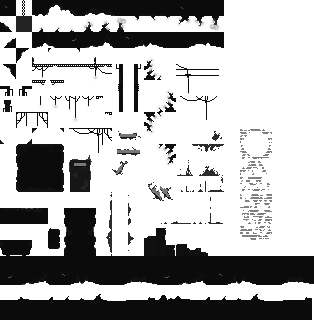
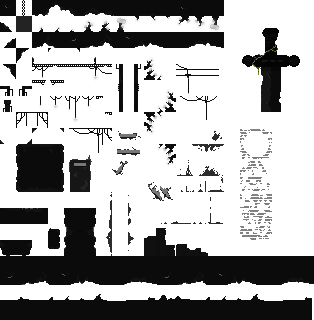
ASH-8: fine tuned deer and fixed dash

Changed region(s): [[0.7739, 0.0625, 0.9745, 0.375]]

diff --git a/src/game/actors/Deer/index.ts b/src/game/actors/Deer/index.ts
@@ -5,6 +5,7 @@ import { AnimationHelper } from '../../components/AnimationHelper';
 import { getAllDeerAnimationConfigs } from './animations';
 import { Actor, ActorConfig } from '../../components/Actor';
 import { getDeerActorConfig } from './actorConfigs';
+import { Player } from '../Player';
 
 export type DeerSkins = 'deer';
 
@@ -22,13 +23,16 @@ export class Deer extends Actor {
   private deltaTime: number = 0;
   public deerSkin: DeerSkins;
   public debugEnabled: boolean = false;
+  private hasTriggeredPlayerTransform: boolean = false;
+  private playerRef: Player;
 
-  constructor(scene: Scene, x: number, y: number) {
+  constructor(scene: Scene, x: number, y: number, playerRef: Player) {
     const deerSkin: DeerSkins = 'deer';
     const actorConfig: ActorConfig = getDeerActorConfig(deerSkin);
     super(scene, x, y, skinAtlasMap[deerSkin], skinFrameMap[deerSkin], actorConfig);
     this.deerSkin = deerSkin;
     this.sprite.setDepth(0);
+    this.playerRef = playerRef;
   }
 
   private createAllDeerAnimations(scene: Scene) {
@@ -47,7 +51,12 @@ export class Deer extends Actor {
   }
 
   private onDeathComplete(): void {
-    // Custom logic for deer death (if needed)
+    if (!this.hasTriggeredPlayerTransform) {
+      this.hasTriggeredPlayerTransform = true;
+
+      // Change player to bloodSwordsman
+      (this.playerRef as any).changeSkin('lordOfFlames');
+    }
   }
 
   protected onDeath(): void {

diff --git a/src/game/actors/Player/index.ts b/src/game/actors/Player/index.ts
@@ -202,6 +202,8 @@ export class Player extends Actor {
   }
 
   private handleMovement(state: PlayerState) {
+    if (this.isDashing) return
+
     if (state.canMove && state.isMoving) {
       const moveSpeed = state.isRunning ? this.playerSpeed * 2 : this.playerSpeed;
 
@@ -233,11 +235,11 @@ export class Player extends Actor {
   }
 
   private handleWallSlide(state: PlayerState) {
-    if (state.shouldWallSlide) {
+    if (state.shouldWallSlide && !state.isWallSliding) {
       this.sprite.body.setGravityY(-1);
       this.sprite.setVelocityY(0);
       this.sprite.play(`${this.playerSkin}_player_wall_hold`);
-    } else if (state.shouldStopWallSlide) {
+    } else if (state.shouldStopWallSlide && state.isWallSliding) {
       console.log('Stopping wall slide');
       this.sprite.play(`${this.playerSkin}_player_idle`);
       this.sprite.body.setGravityY(0); // Restore normal gravity

diff --git a/src/game/actors/Deer/actorConfigs.ts b/src/game/actors/Deer/actorConfigs.ts
@@ -6,13 +6,13 @@ const deerActorConfig: ActorConfig = {
   scale: 4,
   bodyWidth: 22,
   bodyHeight: 14,
-  centerXLeft: 0.7,
-  centerXRight: 0.3,
+  centerXLeft: 0.5,
+  centerXRight: 0.5,
   centerY: 1,
   health: 8,
   attackPower: 0,
   invulnerabilityDuration: 500,
-  bodyOffsetY: 18,
+  bodyOffsetY: 40,
   knockbackForce: 80,
   deathAnimationKey: 'deer_death',
   hitAnimationKey: 'deer_death'

diff --git a/src/game/actors/Elk/actorConfigs.ts b/src/game/actors/Elk/actorConfigs.ts
@@ -6,8 +6,8 @@ const elkActorConfig: ActorConfig = {
   scale: 4,
   bodyWidth: 25,
   bodyHeight: 15,
-  centerXLeft: 0.7,
-  centerXRight: 0.3,
+  centerXLeft: 0.5,
+  centerXRight: 0.5,
   centerY: 1,
   health: 10,
   attackPower: 0,
